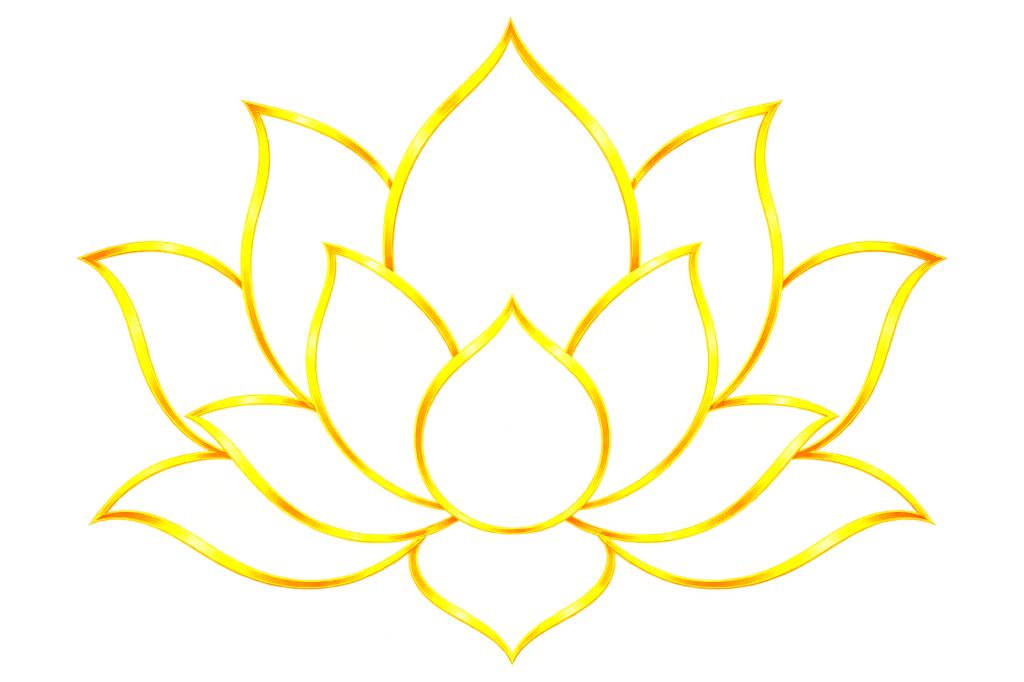
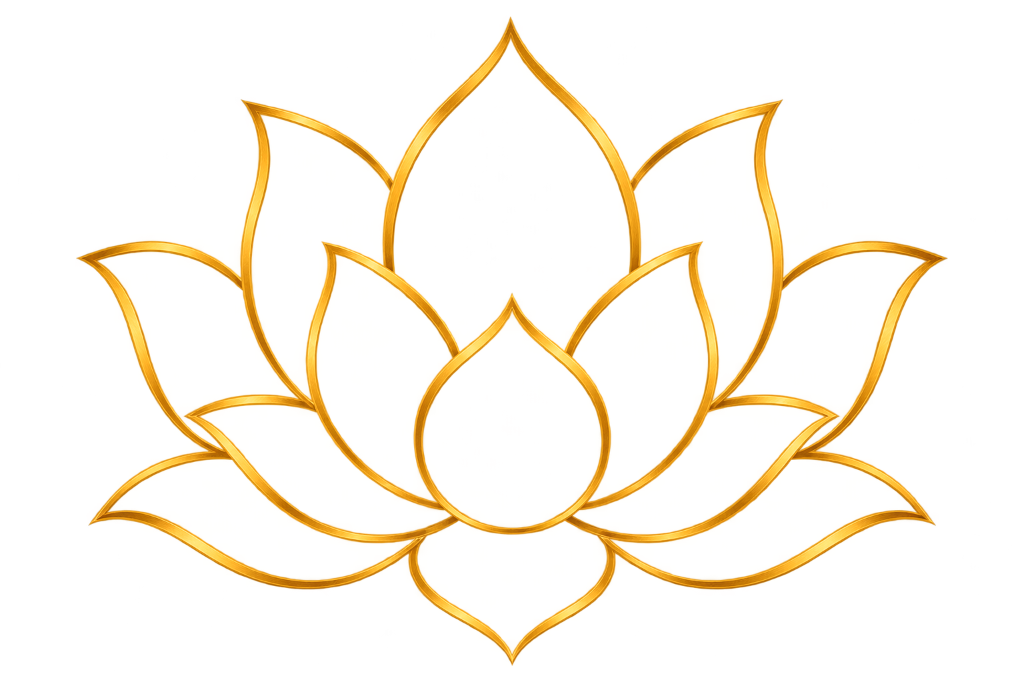
Make golden lotus crisp deep gold and remove all spread-out light haze

diff --git a/index.html b/index.html
@@ -10,7 +10,7 @@
 <link rel="preconnect" href="https://fonts.googleapis.com">
 <link rel="preconnect" href="https://fonts.gstatic.com" crossorigin>
 <link href="https://fonts.googleapis.com/css2?family=Cinzel:wght@500;600;700&family=Cormorant+Garamond:ital,wght@0,500;0,600;1,500;1,600&family=Jost:wght@300;400;500;600&family=Noto+Serif+Devanagari:wght@500;600&display=swap" rel="stylesheet">
-<link rel="stylesheet" href="style.css?v=46">
+<link rel="stylesheet" href="style.css?v=47">
 </head>
 <body>
 
@@ -63,7 +63,7 @@
     </div>
   </div>
   <a href="#story" class="scroll-cue" aria-label="Scroll to Our Story">
-    <img src="images/lotus_gold.png?v=1" alt="Lotus" class="lotus-cue">
+    <img src="images/lotus_gold.png?v=2" alt="Lotus" class="lotus-cue">
   </a>
   <div class="hero-tag">Take Out Only &nbsp;·&nbsp; Cloud Kitchen &nbsp;·&nbsp; Edmonton</div>
 </section>
@@ -72,7 +72,7 @@
   <div class="wrap">
     <div class="story-head reveal" style="text-align: center; margin-bottom: 24px; grid-column: 1 / -1;">
       <div style="display:inline-block; margin-bottom: 6px;">
-        <img src="images/lotus_gold.png?v=1" alt="Lotus" style="width:30px; height:auto; margin:0 auto; opacity:0.9;">
+        <img src="images/lotus_gold.png?v=2" alt="Lotus" style="width:30px; height:auto; margin:0 auto; opacity:0.95;">
       </div>
       <div class="wordmark" style="font-family:'Cinzel', serif; font-size:1.55rem; letter-spacing:0.18em; color:var(--maroon); margin-bottom:4px;">SILSILA</div>
       <div class="eyebrow" style="color:var(--gold); font-size: 0.85rem; letter-spacing: 0.24em; text-transform: uppercase;">&diams; OUR STORY &diams;</div>

diff --git a/style.css b/style.css
@@ -190,16 +190,14 @@ nav.links a:hover::after{width:100%;}
 .scroll-cue .lotus-cue{
   width:38px;
   height:auto;
-  filter:drop-shadow(0 2px 10px rgba(233,208,143,0.9)) drop-shadow(0 0 8px rgba(200,162,78,0.75)) brightness(1.2);
-  transition:transform .3s ease, filter .3s ease;
+  transition:transform .3s ease;
 }
 .scroll-cue:hover .lotus-cue{
-  transform:scale(1.15);
-  filter:drop-shadow(0 4px 18px rgba(233,208,143,1)) drop-shadow(0 0 12px rgba(255,215,0,0.95)) brightness(1.35);
+  transform:scale(1.12);
 }
 @keyframes lotusFloat{
-  0%, 100%{ transform:translateX(-50%) translateY(0); opacity:0.95; filter:drop-shadow(0 2px 10px rgba(233,208,143,0.85)) drop-shadow(0 0 6px rgba(200,162,78,0.7)) brightness(1.18); }
-  50%{ transform:translateX(-50%) translateY(6px); opacity:1; filter:drop-shadow(0 5px 20px rgba(233,208,143,1)) drop-shadow(0 0 14px rgba(255,215,0,0.9)) brightness(1.32); }
+  0%, 100%{ transform:translateX(-50%) translateY(0); opacity:0.95; }
+  50%{ transform:translateX(-50%) translateY(6px); opacity:1; }
 }
 @keyframes fadeDown{from{opacity:0; transform:translateY(-14px);} to{opacity:1; transform:translateY(0);}}
 @keyframes fadeUp{from{opacity:0; transform:translateY(18px);} to{opacity:1; transform:translateY(0);}}
